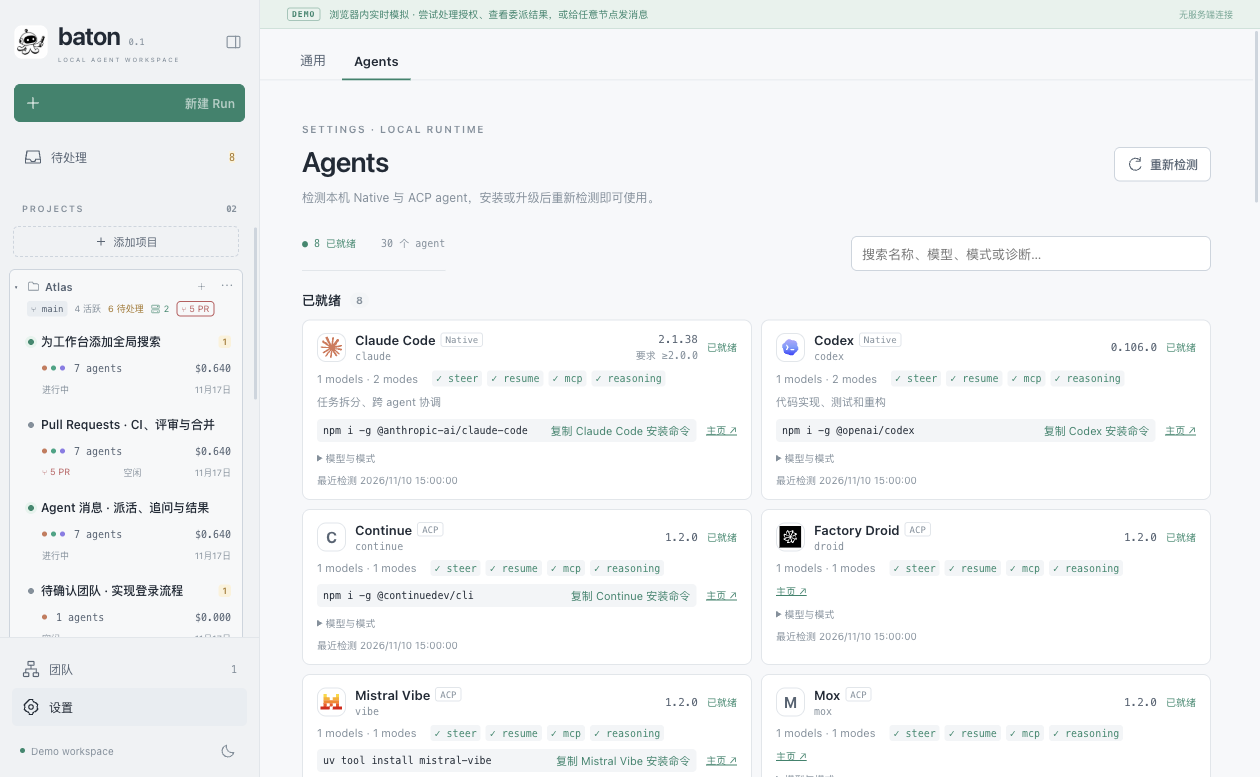
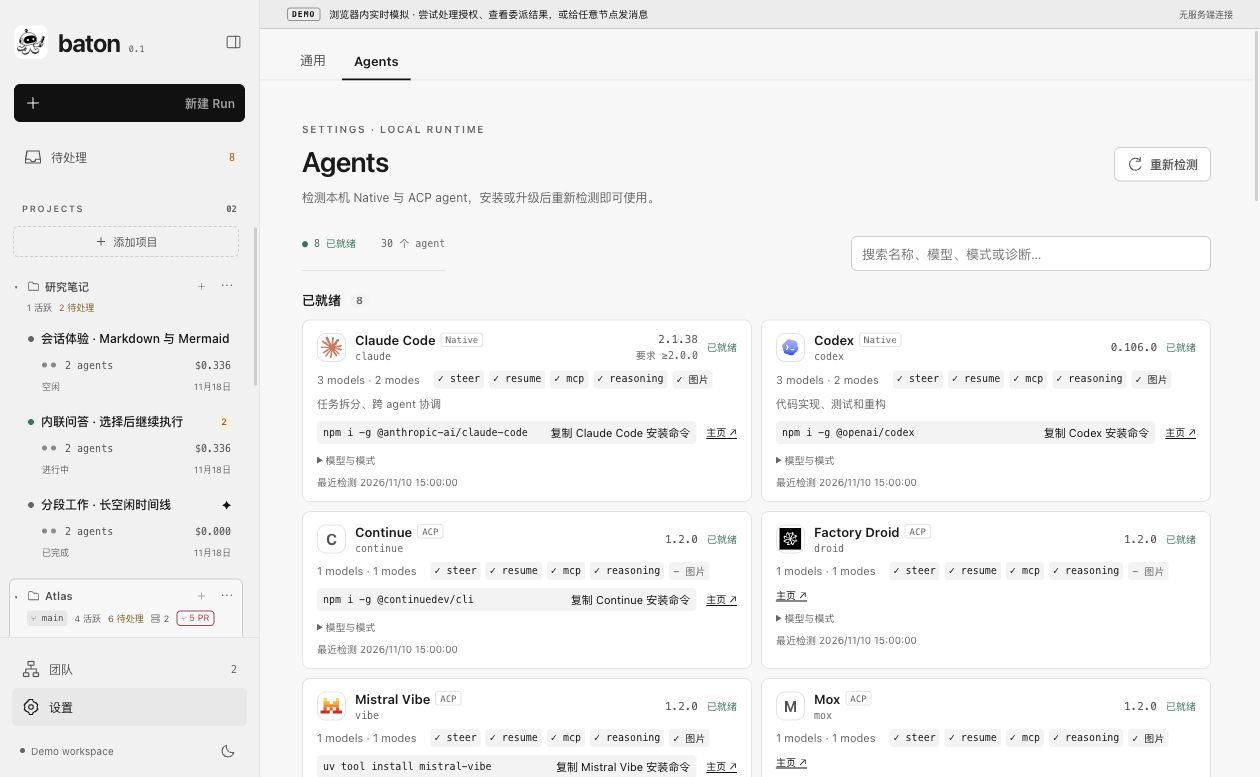
docs: README screenshots retaken in the current UI, eight new ones
All screenshots now show the black-and-white theme. New: New Run with
candidate members and the agent-config model list, the run team with
candidates, Markdown with the outline rail, Mermaid, the composer (live
Markdown, image pills), message rollback, pull request tracking and the
dark theme. Feature list mentions candidates, rollback, images, the
outline rail and themes. All from demo mode.

diff --git a/README.en.md b/README.en.md
@@ -7,20 +7,33 @@
 Local agent client with **native delegation** and **observability**. baton detects and drives the agent CLIs already installed on your machine (Claude Code, Codex, pi, and any ACP agent such as Gemini CLI, Qwen Code, Kimi, OpenCode, Goose…) instead of running its own agent loop.
 
 - **Agents you already have.** 53 built-in agents: native Claude Code (Agent SDK), Codex (app-server) and pi (RPC), plus 50 ACP agents (OpenCode, Qwen Code, Gemini CLI, Kimi, Copilot, Cursor, Grok, Goose…). Detected from your PATH with version gates and install hints; every spec can be overridden in `config.json`.
-- **Native delegation.** Every agent gets a per-node `baton` MCP server (`delegate`, `wait`, `send`, `reassign`, `report_result`, `ask_human`, team tools…). Any agent can delegate to any detected agent, across vendors; results flow back automatically. Collaboration modes: dynamic teams (with roster approval), preset teams, or solo.
-- **Human in the loop.** Cross-run inbox for permissions, team proposals, inline question cards and escalations; permission rules; queue / steer / interrupt sending modes; pause and resume.
+- **Native delegation.** Every agent gets a per-node `baton` MCP server (`delegate`, `wait`, `send`, `reassign`, `report_result`, `ask_human`, team tools…). Any agent can delegate to any detected agent, across vendors; results flow back automatically. Collaboration modes: dynamic teams (with roster approval), preset teams, or solo. Dynamic and preset teams can carry candidate members (agent, model, thinking level, optional description, no role) that the lead hires on its own.
+- **Human in the loop.** Cross-run inbox for permissions, team proposals, inline question cards and escalations; permission rules; queue / steer / interrupt sending modes; pause and resume; roll a message back (conversation, files, or both).
+- **Conversation.** Live Markdown in the composer; images inline as pills for agents that accept them, and shown in the transcript; an outline rail to jump to any message you sent.
 - **Observability.** Live delegation topology, a session timeline (idle gaps compressed), full transcripts with GFM + Mermaid, per-turn timing, background processes started by agents, and pull requests they open (with CI / review status).
-- **Projects and desktop.** Every session belongs to a project (working directory). Electron desktop app for macOS and Windows with a native folder picker; the same console also runs in a browser.
+- **Projects and desktop.** Every session belongs to a project (working directory). Electron desktop app for macOS and Windows with a native folder picker; the same console also runs in a browser. Light and dark themes.
 
 Design: [docs/DESIGN.md](docs/DESIGN.md).
 
 ![Delegation topology](docs/images/topology.png)
 
-| Conversation and agent messages | Team roster approval |
+| New run: candidate members, models from the agent's config | Team roster approval |
 | --- | --- |
-| ![Conversation](docs/images/conversation.png) | ![Team roster](docs/images/team-proposal.png) |
-| **Inline question cards** | **Session timeline (idle gaps folded)** |
-| ![Questions](docs/images/questions.png) | ![Timeline](docs/images/timeline.png) |
+| ![New run](docs/images/new-run.png) | ![Team roster](docs/images/team-proposal.png) |
+| **Run team and candidates** | **Conversation and agent messages** |
+| ![Run team](docs/images/run-team.png) | ![Conversation](docs/images/conversation.png) |
+| **Markdown and the outline rail** | **Mermaid diagrams** |
+| ![Markdown](docs/images/markdown.png) | ![Mermaid](docs/images/mermaid.png) |
+| **Composer: live Markdown and image pills** | **Message rollback: conversation, files or both** |
+| ![Composer](docs/images/composer.png) | ![Rollback](docs/images/rollback.png) |
+| **Inline question cards** | **Inbox** |
+| ![Questions](docs/images/questions.png) | ![Inbox](docs/images/inbox.png) |
+| **Session timeline (idle gaps folded)** | **Background processes** |
+| ![Timeline](docs/images/timeline.png) | ![Background processes](docs/images/background.png) |
+| **Pull request tracking (CI and reviews)** | **Dark theme** |
+| ![Pull requests](docs/images/pull-requests.png) | ![Dark theme](docs/images/dark.png) |
+
+![Agent detection](docs/images/agents.png)
 
 Screenshots are from the console's built-in demo mode (open without a token or with `?demo=1`); the UI is currently Chinese.
 

diff --git a/README.md b/README.md
@@ -17,19 +17,41 @@
   - **预设团队**：按你保存好的团队直接执行。
   - **单人模式**：只用一个 agent 完成。
   - 执行过程中可以随时换人或改派。
-- **人在回路**：跨会话的「待处理」收件箱，汇总权限请求、团队名单、内联问答卡片和升级事项。另有权限规则，消息支持排队、引导、立即发送（中断）三种发送模式，会话可以暂停和恢复。
+  - 动态组队和预设团队都可以带**候选成员**：只填 agent、模型、思考级别和可选描述，不用定角色，主导者按任务自主招人。
+- **人在回路**：跨会话的「待处理」收件箱，汇总权限请求、团队名单、内联问答卡片和升级事项。另有权限规则，消息支持排队、引导、立即发送（中断）三种发送模式，会话可以暂停和恢复，也可以把消息**回退**到之前（只回退会话、只回退文件，或两者一起）。
+- **会话体验**：输入框实时渲染 Markdown；支持图片的 agent 可以在消息里插入图片（以胶囊显示），对话中直接显示图片；会话右侧的目录栏可以跳到你发过的每条消息。
 - **可观测性**：实时委派拓扑图；会话时间线（自动折叠空闲时段）；完整对话记录（支持 GFM、Mermaid、中日韩排版）；每轮计时与思考动画；agent 在后台启动的常驻进程登记；agent 提交的 Pull Request 及其 CI 和评审状态。
-- **项目与桌面端**：每个会话都归属一个项目（工作目录）。提供 macOS 和 Windows 桌面应用，选择目录时直接唤起系统对话框；同一套控制台也可以在浏览器里使用。
+- **项目与桌面端**：每个会话都归属一个项目（工作目录）。提供 macOS 和 Windows 桌面应用，选择目录时直接唤起系统对话框；同一套控制台也可以在浏览器里使用。亮色、暗色主题可切换。
 
 ## 截图
 
-| 会话与 agent 往来消息 | 团队名单确认 |
+### 协作与团队
+
+| 新建 Run：候选成员，模型从 agent 配置中选 | 团队名单确认 |
 | --- | --- |
-| ![会话](docs/images/conversation.png) | ![团队名单](docs/images/team-proposal.png) |
-| **内联问答卡片** | **会话时间线（折叠空闲）** |
-| ![问答卡片](docs/images/questions.png) | ![时间线](docs/images/timeline.png) |
-| **后台进程登记** | **待处理收件箱** |
-| ![后台进程](docs/images/background.png) | ![待处理](docs/images/inbox.png) |
+| ![新建 Run](docs/images/new-run.png) | ![团队名单](docs/images/team-proposal.png) |
+| **运行中的团队与候选成员** | **会话与 agent 往来消息** |
+| ![运行团队](docs/images/run-team.png) | ![会话](docs/images/conversation.png) |
+
+### 会话体验
+
+| Markdown 渲染与会话目录栏 | Mermaid 图表 |
+| --- | --- |
+| ![Markdown 与目录](docs/images/markdown.png) | ![Mermaid](docs/images/mermaid.png) |
+| **输入框：实时 Markdown 与图片胶囊** | **消息回退：会话、文件或两者** |
+| ![输入框](docs/images/composer.png) | ![消息回退](docs/images/rollback.png) |
+
+### 人在回路与可观测
+
+| 内联问答卡片 | 待处理收件箱 |
+| --- | --- |
+| ![问答卡片](docs/images/questions.png) | ![待处理](docs/images/inbox.png) |
+| **会话时间线（折叠空闲）** | **后台进程登记** |
+| ![时间线](docs/images/timeline.png) | ![后台进程](docs/images/background.png) |
+| **Pull Request 跟踪（CI 与评审）** | **暗色主题** |
+| ![Pull Requests](docs/images/pull-requests.png) | ![暗色主题](docs/images/dark.png) |
+
+### Agent 检测
 
 ![Agent 检测](docs/images/agents.png)
 
